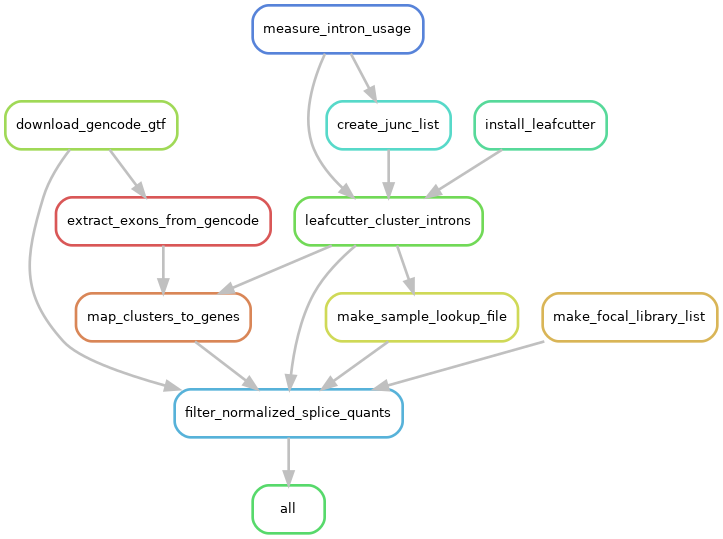
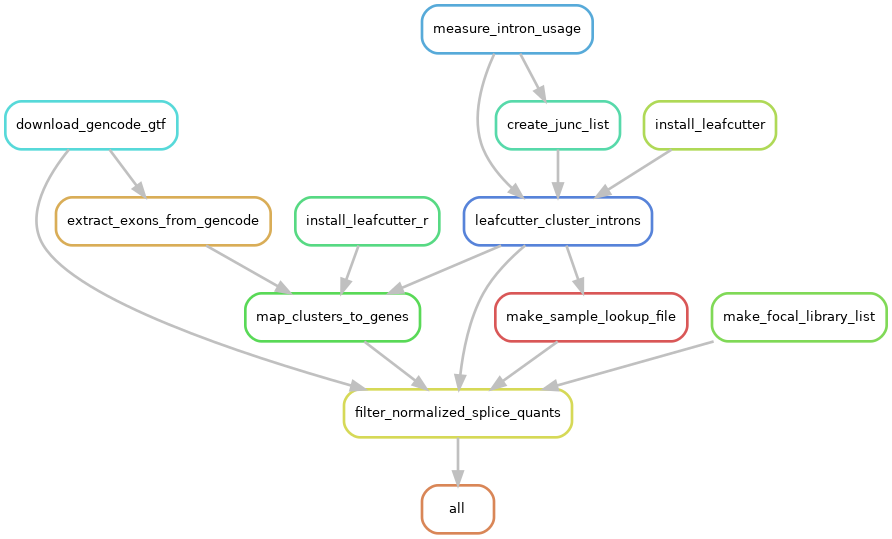
docs: Updated documentation for all 01_data_preparation components

Changed region(s): [[0.0, 0.0, 1.0, 1.0], [0.5477, 0.9202, 0.5781, 0.9796]]

diff --git a/analysis_pipeline/01_data_preparation/splicing_quantification/README.md b/analysis_pipeline/01_data_preparation/splicing_quantification/README.md
@@ -1,9 +1,8 @@
 # MAGE Splicing Quantification
 
-This directory contains code to replicate the splicing quantification procedure done as part of the initial MAGE publication. This procedure is broadly split into three sections:
-1. Variant-aware read mapping with STAR
-2. Annotation-agnostic estimation of intron excision with [Leafcutter](https://davidaknowles.github.io/leafcutter/)
-3. Filtering and normalization for sQTL analsyses
+This directory contains code to replicate the splicing quantification procedure done as part of the MAGE v.1.1 release. This procedure is broadly split into two sections:
+1. Variant-aware read-mapping with [STAR](https://github.com/alexdobin/STAR)
+2. Annotation-agnostic estimation of intron excision with [Leafcutter](https://davidaknowles.github.io/leafcutter/) and subsequent filtering and normalization for sQTL mapping analyses
 
 *Note: these steps should be run in order*<br><br>
 
@@ -22,26 +21,12 @@ The `01_align_dev.sh` script uses VCF files from 1000 Genomes samples to perform
 Choices of parameters were inspired by code from [TOPMed](https://github.com/broadinstitute/gtex-pipeline/blob/master/TOPMed_RNAseq_pipeline.md). The script outputs BAM alignment files.
 
 ## Splicing quantification with Leafcutter
-**NOTE: THIS STEP AND THE FOLLOWING STEP HAVE BEEN INTEGRATED INTO A SINGLE SNAKEMAKE PIPELINE**
 
-The `02_intron_usage.sh` script will use the `STAR` alignments generated in the previous section to estimate intron cluster usage per sample. Following, intron usage estimates are aggregated across all samples and consolidated into a single file. The focal outputs from this script are `*._perind_numers.counts.gz` and `*perind.counts.gz` which contain ***counts*** of intron cluster usage and ***ratios***, respectively.<br>
+The [`02_intron_usage/`](./02_intron_usage/) directory contains a snakemake pipeline for quantifying intron excision ratios with [Leafcutter](https://davidaknowles.github.io/leafcutter/) using the `STAR` alignments generated in the previous section. Intron usage estimates are aggregated across all samples and then filtered for clusters bearing either low-expression or low-complexity.
 
-The script takes a single argument that is the path to the STAR output directory containing BAM files and their respective indices.<br>
-*Before running this script, install `leafcutter` following the instructions [here](https://davidaknowles.github.io/leafcutter/articles/Installation.html).*<br><br>
-
-## Filtering and normalization for sQTL analyses
-
-The `03_map_and_filter_clusters.sh` script will filter out lowly expressed and low-complexity splicing clusters. It will output three files:
+The primary outputs of this pipeline are the following:
 1. Raw filtered intron excision ratios (no normalization)
 2. Normalized filtered intron excision ratios
 3. A file mapping introns to genes
 
-The script takes seven arguments:
-1. `gencodeGTF`: The Gencode transcript GTF file, used for mapping introns to genes (we used the Gencode v38 files [here](https://ftp.ebi.ac.uk/pub/databases/gencode/Gencode_human/release_38/gencode.v38.annotation.gtf.gz))
-2. `leafcutterOutDir`: The directory containing leafcutter files from the previous step
-3. `leafcutterOutPrefix`: Prefix of Leafcutter output files (i.e. everything before `_perind_numers.counts.gz` and `_perind.counts.gz`)
-4. `sampleLookupFile`: A file mapping columns of the leafcutter files to sampleIDs (to be included in the output file). Should be a two-column tab-separated file
-5. `selectedSampleList`: A file listing the samples to include in the output file. If one column, will subset to the corresponding samples (after renaming from the previous argument). If two columns, will subset and re-name. We used this to subset to only one replicate for samples that were sequenced in triplicate.
-6. `leafcutterPrepHelperScript`: Path to the Leafcutter `prepare_phenotype_table.py` helper script, which is used for normalization (and some filtering)
-7. `outDir`: Path to directory to write output files to
-<br><br>
+Technical details on the pipeline are documented in [`02_intron_usage/README.md`](./02_intron_usage/README.md).

diff --git a/analysis_pipeline/01_data_preparation/splicing_quantification/02_intron_usage/README.md b/analysis_pipeline/01_data_preparation/splicing_quantification/02_intron_usage/README.md
@@ -1,10 +1,79 @@
 ### 02_intron_usage
 
-This directory contains the snakemake pipeline for performing `leafcutter` to compute intron usage statistics from RNAseq read alignments.
+This directory contains the Snakemake workflow used to quantify intron excision with `regtools` and `leafcutter` from STAR-aligned RNA-seq BAM files. The workflow aggregates junction usage across all libraries, clusters introns with `leafcutter`, maps clusters to genes using GENCODE v38 exons, and produces filtered and normalized intron usage phenotypes for downstream sQTL analyses.
+
+
+
+#### Workflow summary
+
+The pipeline performs the following steps:
+
+1. Extract splice junctions from each aligned BAM with `regtools junctions extract`
+2. Build a manifest of `.junc` files and run `leafcutter_cluster_regtools.py`
+3. Download the GENCODE v38 annotation and extract exon intervals
+4. Install the required `leafcutter` dependencies and map intron clusters to genes
+5. Generate sample-lookup and sample-retention files from the metadata tables
+6. Filter low-expression and low-complexity clusters and prepare normalized phenotype tables
+
+#### Required configuration
+
+Runtime configuration is stored in `config.yaml`. The workflow expects the following keys:
+
+1. `focal_metadata`: Tab-delimited metadata table for the subset of libraries to retain in the final phenotype matrix
+2. `total_metadata`: Tab-delimited metadata table for all libraries used during junction discovery and clustering
+3. `bam_dir`: Directory containing coordinate-sorted BAM files and BAM indexes named as `{internal_libraryID}.bam` and `{internal_libraryID}.bam.bai`
+4. `gencode_url`: URL for the GENCODE GTF used to derive exon coordinates
 
 #### Directory contents
 
-#### Output
+Generated directories such as `results/` and `logs/` are omitted below.
+
+```
+02_intron_usage/
+├── config.yaml                               # Input paths and URL
+├── README.md                                 # This file
+├── rg.png                                    # Rendered Snakemake rule graph
+├── snakemake_env.yaml                        # Conda environment for running Snakemake
+└── workflow/
+	├── Snakefile                               # Main workflow definition
+	├── bin/
+	│   ├── extract_exons_from_gtf.py           # Extract exon intervals from GTF
+	│   ├── filter_quants.py                    # Filter and normalize splice phenotypes
+	│   ├── generate_sample_lookup.py           # Build library-to-sample lookup table
+	│   ├── leafcutter_install.R                # Install required leafcutter R dependencies
+	│   └── map_clusters_to_genes.R             # Map intron clusters to genes
+	└── envs/
+		├── leafcutter_analysis.yaml             # Cluster filtering
+		├── leafcutter_preprocessing.yaml        # regtools and leafcutter
+		└── leafcutter_R.yaml                    # R-based cluster annotation
+```
+
+#### Primary outputs
+
+The `all` rule expects the following files:
+
+1. `results/leafcutter_analysis/mage_v1.1_perind.counts.filtered.gz`: Filtered intron excision ratios
+2. `results/leafcutter_analysis/mage_v1.1_perind.counts.normed.genes.filtered.bed.gz`: Normalized intron usage
+3. `results/leafcutter_analysis/mage_v1.1_perind.counts.normed.genes.filtered.phenotype_groups.txt`: Mapping of phenotype IDs to genes
+
+
+#### Running the workflow
+
+Create the Snakemake environment from this directory:
+
+```bash
+mamba env create -f snakemake_env.yaml
+conda activate smk7
+```
+
+Run the full workflow:
+
+```bash
+snakemake --configfile config.yaml -j 16 --use-conda -p # Adjust -j for parallel execution
+snakemake --configfile config.yaml --profile /path/to/profile -p # Use --profile to specify the Snakemake profile for cluster execution
+```
+
+The profile in `/path/to/profile/` supplies cluster and execution settings shared across the project.
 
 #### Rulegraph
 

diff --git a/analysis_pipeline/01_data_preparation/README.md b/analysis_pipeline/01_data_preparation/README.md
@@ -1,21 +1,18 @@
 # MAGE Data Preparation
 
-This directory contains all the components of the data preparation pipeline used as part of the initial MAGE publication. This pipeline is broadly split into three sections:
-1. Preparing MAGE VCFs from 1KGP VCFs
-2. Quantifying expression from raw reads using Salmon
-3. Alignment with STAR and splicing quantification with Leafcutter
+This directory contains all the components of the data preparation pipeline used for MAGE v.1.1. This pipeline is broadly split into four sections:
+1. [Preparing MAGE VCFs from 1KGP VCFs](subset_VCFs/)
+2. [Quantifying expression from raw reads using Salmon](expression_quantification/)
+3. [Alignment with STAR and splicing quantification with Leafcutter](splicing_quantification/)
+4. [Computing Fst values for finemapped loci](fst_calculation/)
 
 *Note: all analyses were performed using the GRCh38 reference*<br><br>
 
 ## Preparing MAGE VCFs
 
-Code to produce MAGE VCFs is in the [`subset_VCFs`](subset_VCFs/) directory.
-
 The samples included in MAGE are a subset of the [1000 Genomes Project (1KGP)](https://doi.org/10.1038/nature15393). The [New York Genome Center (NYGC)](https://doi.org/10.1016/j.cell.2022.08.004) previously generated a set of high-quality variant calls for the full 1KGP data set using high-coverage whole genome sequencing, and we generate a MAGE VCF as a subset of the NYGC VCF for these samples (downloaded from the [1KGP FTP site](http://ftp.1000genomes.ebi.ac.uk/vol1/ftp/data_collections/1000G_2504_high_coverage/working/20201028_3202_phased/)).<br><br>
 
 ## Expression Quantification
-
-Code to perform expression quantification is in the [`expression_quantification`](expression_quantification/) directory.
 
 Expression quantification was performed with raw reads using [Salmon](https://combine-lab.github.io/salmon/) with [GENCODE v38](https://www.gencodegenes.org/human/release_38.html) transcript annotations.
 
@@ -23,6 +20,8 @@ Transcript-level pseudocounts from Salmon were merged to gene-level estimates, f
 
 ## Splicing Quantification
 
-Code to perform splicing quantification is in the [`splicing_quantification`](splicing_quantifcation/) directory.
-
 Reads were first aligned to the GRCh38 reference using the [STAR](https://www.ncbi.nlm.nih.gov/pmc/articles/PMC3530905/) aligner. These alignments were then used as input with [Leafcutter](https://www.nature.com/articles/s41588-017-0004-9) to quantify splicing in an annotation agnostic manner. Splicing quantifications were then filtered. For sQTL discovery, filtered quants were mapped to genes and normalized.<br><br>
+
+## Fst Calculations
+
+We used the [Weir and Cockerham Fst estimator](https://doi.org/10.2307/2408641) as implemented in [vcflib](https://github.com/vcflib/vcflib/tree/master) to compute Fst values for each focal population vs. the global background (e.g., AFS vs. [EUR + SAS + EAS + AMR]). Finemapping procedure can be found in the [05_eQTL_mapping](../05_eQTL_mapping/) directory.

diff --git a/analysis_pipeline/01_data_preparation/expression_quantification/README.md b/analysis_pipeline/01_data_preparation/expression_quantification/README.md
@@ -1,8 +1,9 @@
 # MAGE Expression Quantification
 
-This directory contains code to replicate the expression quantification procedure done as part of the initial MAGE publication. This procedure is broadly split into two sections:
+This directory contains code to replicate the expression quantification procedure done as part of the MAGE v1.1 release. This procedure is broadly split into three sections:
 1. Initial transcript-level quantification with [Salmon](https://combine-lab.github.io/salmon/)
 2. Filtering and normalization for eQTL mapping analysis
+3. Differential expression analysis and generating expression matrices
 
 *Note: these steps should be run in order*<br><br>
 
@@ -31,3 +32,16 @@ The script takes four arguments:
 3. `outQuantsDir`: Directory to write gene-level filtered expression quantification files to
 4. `outPrefix`: Prefix of output files in `outQuantsDir`
 <br><br>
+
+## Differential expression analysis and generating expression matrices
+
+The `03_deseq.ipynb` Jupyter notebook details the steps for generating expression matrices and performing differential expression analyses with the following contrasts:
+1. Focal continental group vs. all other groups (e.g. AFR vs. non-AFR)
+2. Focal population vs. all other populations (within the same continental group, e.g. YRI vs. non-YRI-in-AFR)
+
+The environment used to perform this analysis are detailed in the [`03_deseq.yaml`](resources/03_deseq.yaml) anaconda environment recipe, and the input parameters are available in the [`03_deseq_config.yaml`](resources/03_deseq_config.yaml) config file. The inputs for this notebook are the following:
+1. Directory of salmon quantifications generated from [`01_run_salmon.sh`](01_run_salmon.sh)
+2. BED file containing genes retained after filtering for low-expression or low-complexity (generated from [`02_filter_normalize.sh`](02_filter_normalize.sh))
+3. Gencode annotation GFF3 file (available from [here](https://www.gencodegenes.org/human/release_38.html))
+4. Metadata file containing sample information
+
